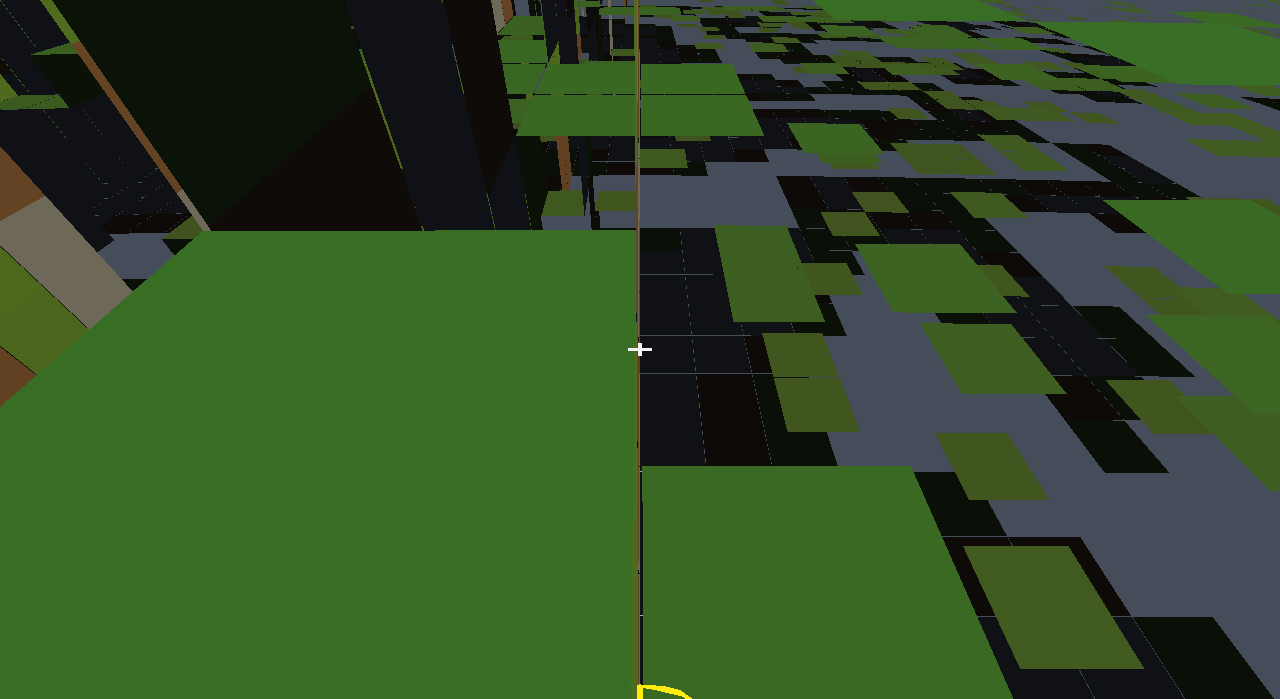
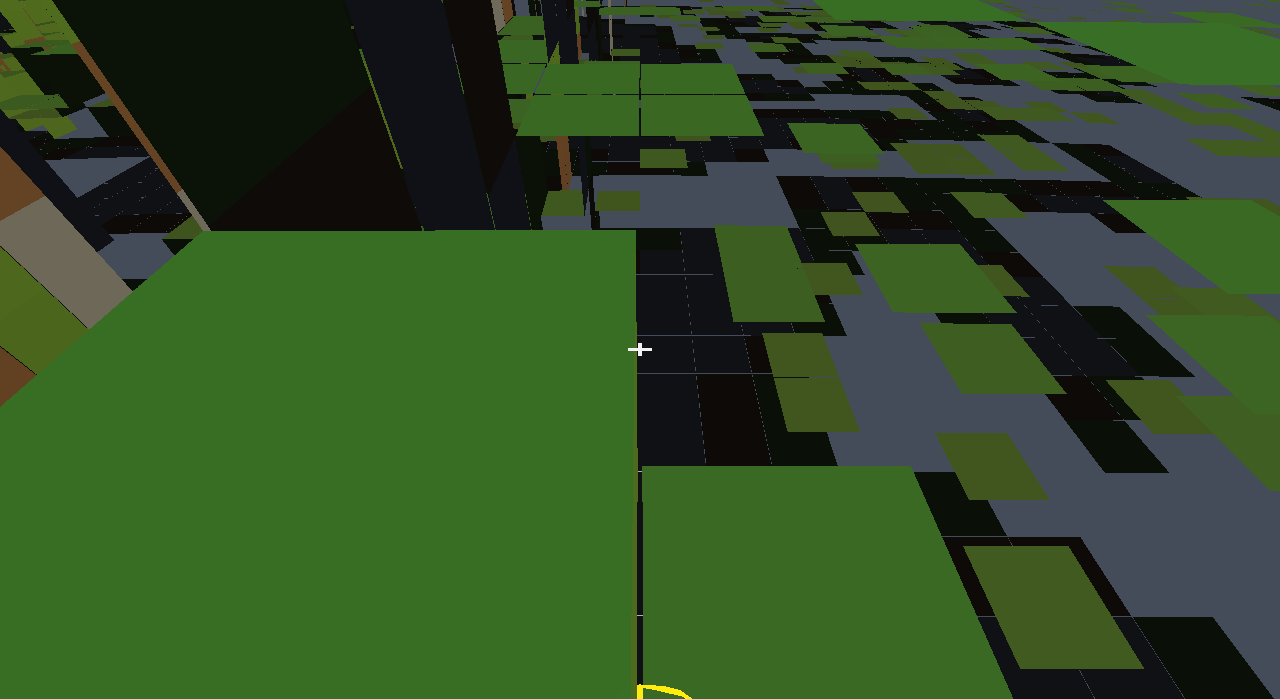
fix(culling): call solid_at for cross-chunk neighbors instead of always emitting
Before: should_emit_face returned true for ALL cross-chunk neighbors,
creating floating quads at every chunk boundary — holes in surface.

After: cross-chunk neighbors resolve BlockAddress and call solid_at
callback. If neighbor chunk is loaded and block is solid, face is
culled. If neighbor chunk is NOT loaded, solid_at returns false so
face is emitted (no holes at loading boundaries).

Vertex count: 5368 → 5056 (312 fewer, cross-chunk faces properly culled)
Face counts now slightly asymmetric: +y=186, -y=260 (was balanced)
— expected during asymmetric chunk loading.

Agent: DeepSeek via opencode

Changed region(s): [[0.0, 0.0, 0.125, 0.2704], [0.4688, 0.2103, 0.5, 0.2704], [0.4688, 0.03, 0.5, 0.0601]]

diff --git a/src/engine_world/planet_blocks.cpp b/src/engine_world/planet_blocks.cpp
@@ -479,7 +479,7 @@ uint64_t BlockWorld::chunk_mesh_id(const BlockAddress &addr) {
 RenderMesh BlockWorld::build_chunk_mesh(
     const BlockAddress &addr,
     const VoxelChunk &chunk,
-    [[maybe_unused]] const std::function<bool(const BlockAddress&)> &solid_at,
+    const std::function<bool(const BlockAddress&)> &solid_at,
     const glm::dvec3 &camera_relative_origin,
     int32_t lod_level) const {
 
@@ -501,9 +501,11 @@ RenderMesh BlockWorld::build_chunk_mesh(
     // spherical curvature and makes terrain look flat. Per-face meshing
     // preserves per-block normals for correct sphere lighting.
 
-    // Intra-chunk face culling: only cull faces whose neighbor is solid
-    // AND in the same chunk. Cross-chunk faces always emitted to avoid
-    // visible seams when streaming loads chunks asymmetrically.
+    // Intra-chunk face culling: emit face only if neighbor is NOT solid.
+    // Cross-chunk face culling: use the solid_at callback to check the
+    // neighboring chunk's block. This prevents floating quads at chunk
+    // boundaries when adjacent chunks are loaded, while still correctly
+    // culling faces against solid neighbors.
     auto should_emit_face = [&](int bx, int by, int bz, BlockDir fd) -> bool {
         const glm::ivec3 dv = block_dir_vector(fd);
         const int nx = bx + dv.x * stride, ny = by + dv.y * stride, nz = bz + dv.z * stride;
@@ -511,8 +513,17 @@ RenderMesh BlockWorld::build_chunk_mesh(
         if (nx >= 0 && nx < cs && ny >= 0 && ny < cs && nz >= 0 && nz < cs) {
             return !chunk.solid(nx, ny, nz);
         }
-        // Cross-chunk: always emit face (avoid seams).
-        return true;
+        // Cross-chunk neighbor: resolve neighbor address and query solid_at.
+        // Only add the chunk address portion — sector and shell are already
+        // correct from the cross-chunk logic in the address.
+        BlockAddress nb_addr = addr;
+        nb_addr.chunk.x = addr.chunk.x + ((nx < 0) ? -1 : (nx >= cs) ? 1 : 0);
+        nb_addr.chunk.y = addr.chunk.y + ((ny < 0) ? -1 : (ny >= cs) ? 1 : 0);
+        nb_addr.chunk.z = addr.chunk.z + ((nz < 0) ? -1 : (nz >= cs) ? 1 : 0);
+        nb_addr.block.x = (nx + cs) % cs;
+        nb_addr.block.y = (ny + cs) % cs;
+        nb_addr.block.z = (nz + cs) % cs;
+        return !solid_at(nb_addr);
     };
 
     // Face direction info: which tangent basis vector is the face normal,
